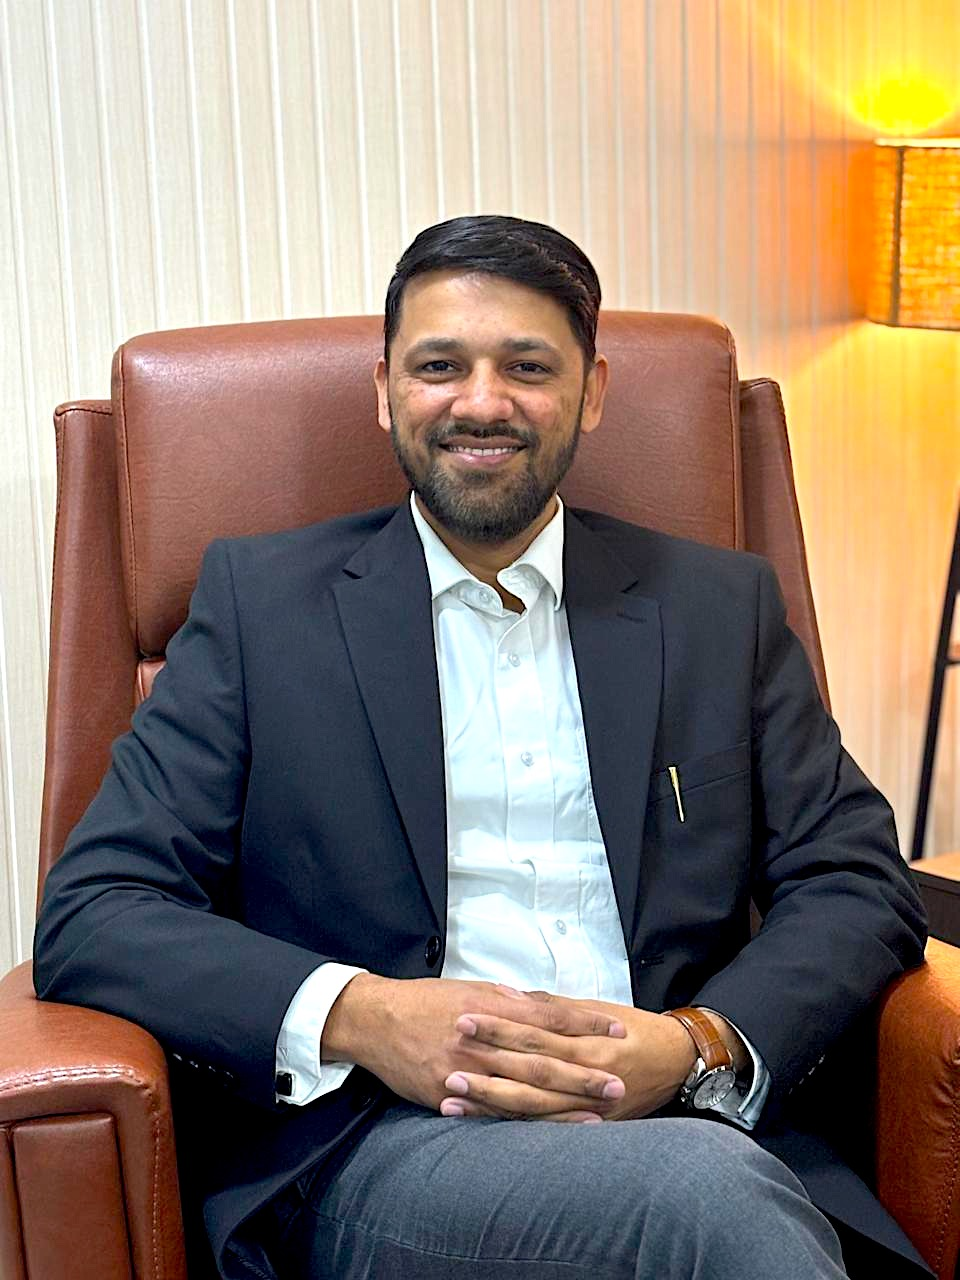
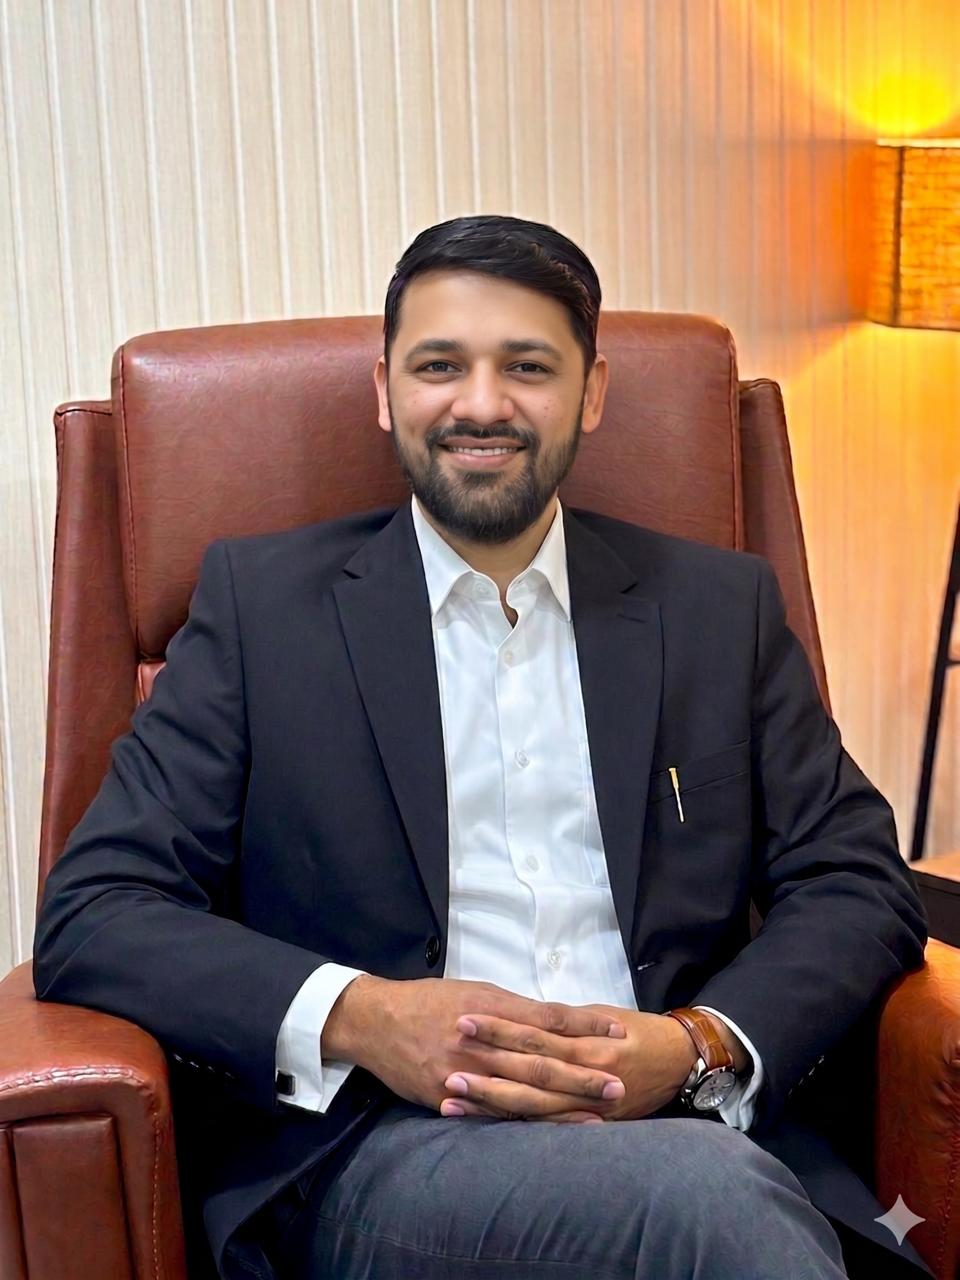
Updated team section and footer assets

diff --git a/src/components/site/Attorneys.tsx b/src/components/site/Attorneys.tsx
@@ -1,27 +1,57 @@
-import { Linkedin, Mail } from "lucide-react";
+import { Linkedin, Mail, MessageCircle, Phone } from "lucide-react";
 import { Reveal } from "./Reveal";
 import { SectionLabel } from "./SectionLabel";
 import vishalDabas from "@/assets/vishal_dabas.png";
 import ravi from "@/assets/ravi.jpeg";
 import rahul from "@/assets/rahul.jpeg";
 import sahil from "@/assets/sahil.jpeg";
-import krishna from "@/assets/krishna.jpeg";
 import ksChauhan from "@/assets/KsChauhan.jpeg";
 import chirasha from "@/assets/chirasha.jpeg";
 import aishwarya from "@/assets/aishwarya.jpeg";
 import jatin from "@/assets/Jatin Daral.jpeg";
-import sahir from "@/assets/sahir.jpeg";
+import kunal from "@/assets/kunal.jpeg";
+import ayush from "@/assets/ayush.jpeg";
+
+const VD_PHONE = "tel:+919873976214";
+const VD_WHATSAPP = "https://wa.me/919873976214";
+const VD_EMAIL = "mailto:mail@vdlegal.in";
+const VISHAL_LINKEDIN = "https://linkedin.com/company/vdlegal";
+
+const contactIconClass =
+  "p-1.5 glass rounded-full hover:bg-foreground hover:text-background transition-all border border-border";
+const contactIconClassLg =
+  "p-2.5 glass rounded-full hover:bg-foreground hover:text-background transition-all border border-border";
+
+function ContactIcons({ size = "sm" }: { size?: "sm" | "lg" }) {
+  const iconClass = size === "lg" ? "h-3.5 w-3.5" : "h-3 w-3";
+  const btnClass = size === "lg" ? contactIconClassLg : contactIconClass;
+
+  return (
+    <>
+      <a href={VD_PHONE} className={btnClass} aria-label="Call VD Legal">
+        <Phone className={iconClass} />
+      </a>
+      <a href={VD_WHATSAPP} target="_blank" rel="noopener noreferrer" className={btnClass} aria-label="WhatsApp VD Legal">
+        <MessageCircle className={iconClass} />
+      </a>
+      <a href={VD_EMAIL} className={btnClass} aria-label="Email VD Legal">
+        <Mail className={iconClass} />
+      </a>
+    </>
+  );
+}
 
 const team = [
   { img: vishalDabas, name: "Vishal Dabas", role: "Founder & Managing Partner", focus: "Corporate Law · Litigation · Arbitration", featured: true },
   { img: ksChauhan, name: "Mr. K.S. Chauhan", role: "Senior Advisor & Consultant", focus: "Constitutional & Civil Law Expert" },
   { img: ravi, name: "Mr. Ravi Mehrotra", role: "Senior Advisor & Consultant", focus: "Constitutional & Appellate Advocacy Expert" },
-  { img: rahul, name: "Rahul Ahlawat", role: "Senior Associate", focus: "Civil & Criminal Litigation Expert" },
-  { img: sahil, name: "Sahil Dabas", role: "Associate", focus: "Real Estate & RERA Specialist" },
+  { img: rahul, name: "Rahul Ahlawat", role: "Senior Partner", focus: "Civil & Criminal Litigation Expert" },
+  { img: sahil, name: "Sahil Dabas", role: "Partner", focus: "Real Estate & RERA Specialist" },
   { img: chirasha, name: "Chirasha Jain", role: "Associate", focus: "Audit & Risk Consultant" },
   { img: aishwarya, name: "Aishwarya Sharma", role: "Associate", focus: "Intellectual Property Rights Expert", imgClassName: "object-cover object-top" },
   { img: jatin, name: "Jatin Daral", role: "Associate", focus: "Civil & Criminal Litigation Specialist" },
-  { img: sahir, name: "Sahir Gehlot", role: "Associate", focus: "Corporate Law & Dispute Resolution Specialist" },
+  { img: kunal, name: "Kunal Masiwal", role: "Associate", focus: "Litigation & Advisory" },
+  { img: ayush, name: "Ayush Rohtagi", role: "Associate", focus: "Corporate & Compliance" },
 ];
 
 export function Attorneys() {
@@ -75,10 +105,16 @@ export function Attorneys() {
                 </p>
                 <div className="flex items-center gap-3">
                   <div className="flex gap-3">
-                    <a href="#" className="p-2.5 glass rounded-full hover:bg-foreground hover:text-background transition-all border border-border">
+                    <a
+                      href={VISHAL_LINKEDIN}
+                      target="_blank"
+                      rel="noopener noreferrer"
+                      className={contactIconClassLg}
+                      aria-label="Vishal Dabas on LinkedIn"
+                    >
                       <Linkedin className="h-3.5 w-3.5" />
                     </a>
-                    <a href="mailto:vishal@vdlegal.in" className="p-2.5 glass rounded-full hover:bg-foreground hover:text-background transition-all border border-border">
+                    <a href="mailto:vishal@vdlegal.in" className={contactIconClassLg} aria-label="Email Vishal Dabas">
                       <Mail className="h-3.5 w-3.5" />
                     </a>
                   </div>
@@ -109,12 +145,7 @@ export function Attorneys() {
                     <h3 className="font-serif text-xl leading-tight">{p.name}</h3>
                     <p className="text-[11px] text-muted-foreground mt-1.5 leading-snug">{p.focus}</p>
                     <div className="flex gap-2.5 mt-4 opacity-100 lg:opacity-0 lg:group-hover:opacity-100 transition-opacity duration-500">
-                      <a href="#" className="p-1.5 glass rounded-full hover:bg-foreground hover:text-background transition-all">
-                        <Linkedin className="h-3 w-3" />
-                      </a>
-                      <a href="#" className="p-1.5 glass rounded-full hover:bg-foreground hover:text-background transition-all">
-                        <Mail className="h-3 w-3" />
-                      </a>
+                      <ContactIcons />
                     </div>
                   </div>
                 </div>

diff --git a/src/components/site/Footer.tsx b/src/components/site/Footer.tsx
@@ -1,4 +1,4 @@
-import { Linkedin, Mail, MessageCircle, Phone } from "lucide-react";
+import { Mail, MessageCircle, Phone } from "lucide-react";
 import vdLogo from "@/assets/vd_logo.png";
 
 export function Footer() {
@@ -27,22 +27,6 @@ export function Footer() {
             </p>
             <div className="flex gap-3 pt-1">
               <a
-                href="https://linkedin.com/company/vdlegal"
-                target="_blank"
-                rel="noopener noreferrer"
-                className="p-2.5 border border-border rounded-full hover:bg-foreground hover:text-background transition-all"
-                aria-label="LinkedIn"
-              >
-                <Linkedin className="h-4 w-4" />
-              </a>
-              <a
-                href="mailto:mail@vdlegal.in"
-                className="p-2.5 border border-border rounded-full hover:bg-foreground hover:text-background transition-all"
-                aria-label="Gmail"
-              >
-                <Mail className="h-4 w-4" />
-              </a>
-              <a
                 href="https://wa.me/919873976214"
                 target="_blank"
                 rel="noopener noreferrer"
@@ -57,6 +41,13 @@ export function Footer() {
                 aria-label="Phone"
               >
                 <Phone className="h-4 w-4" />
+              </a>
+              <a
+                href="mailto:mail@vdlegal.in"
+                className="p-2.5 border border-border rounded-full hover:bg-foreground hover:text-background transition-all"
+                aria-label="Email"
+              >
+                <Mail className="h-4 w-4" />
               </a>
             </div>
           </div>
